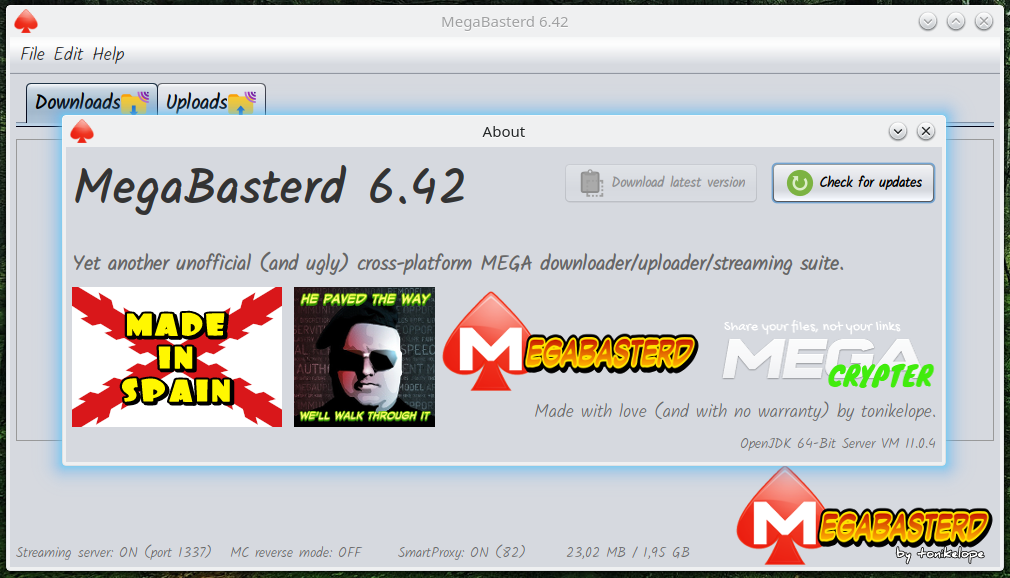
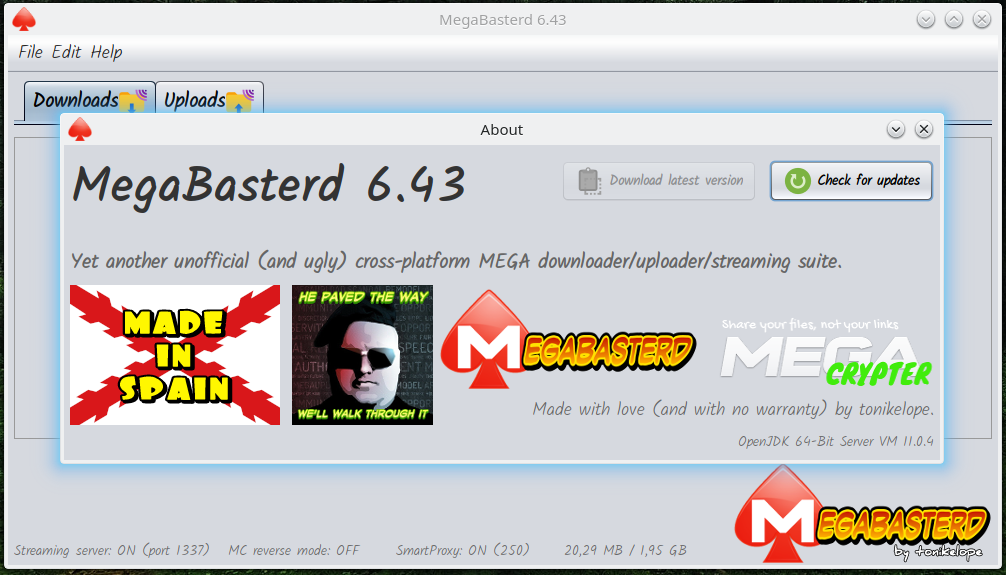
6.43
-Force garbage collector thread

(cherry picked from commit 7f11f154552fb9e1cc0e64d0cebd865da735b05c)

diff --git a/src/main/java/com/tonikelope/megabasterd/MainPanel.java b/src/main/java/com/tonikelope/megabasterd/MainPanel.java
@@ -50,7 +50,7 @@ import javax.swing.UIManager;
  */
 public final class MainPanel {
 
-    public static final String VERSION = "6.42";
+    public static final String VERSION = "6.43";
     public static final int THROTTLE_SLICE_SIZE = 16 * 1024;
     public static final int DEFAULT_BYTE_BUFFER_SIZE = 16 * 1024;
     public static final int STREAMER_PORT = 1337;
@@ -183,6 +183,7 @@ public final class MainPanel {
     private boolean _megacrypter_reverse;
     private float _zoom_factor;
     private volatile boolean _exit;
+    private volatile boolean _forcing_gc;
 
     public MainPanel() {
 
@@ -376,6 +377,8 @@ public final class MainPanel {
 
                 Runtime instance = Runtime.getRuntime();
 
+                _forcing_gc = false;
+
                 while (true) {
 
                     long used_memory = instance.totalMemory() - instance.freeMemory();
@@ -392,19 +395,49 @@ public final class MainPanel {
 
                             }
                         });
-                    } else {
 
-                        Logger.getLogger(MainPanelView.class.getName()).log(Level.INFO, "Forcing garbage collection...");
+                    } else {
 
                         swingInvoke(new Runnable() {
                             @Override
                             public void run() {
-                                _view.getMemory_status().setText("---------");
+                                _view.getMemory_status().setText("(!) " + MiscTools.formatBytes(used_memory) + " / " + MiscTools.formatBytes(max_memory));
                             }
                         });
 
-                        MiscTools.force_garbage_collection();
+                        if (!_forcing_gc) {
 
+                            _forcing_gc = true;
+
+                            THREAD_POOL.execute(new Runnable() {
+                                @Override
+                                public void run() {
+
+                                    long used_memory = instance.totalMemory() - instance.freeMemory();
+
+                                    long max_memory = instance.maxMemory();
+
+                                    while (used_memory >= ((double) max_memory) * 0.7) {
+
+                                        Logger.getLogger(MainPanelView.class.getName()).log(Level.INFO, "Forcing garbage collection...");
+
+                                        MiscTools.force_garbage_collection();
+
+                                        try {
+                                            Thread.sleep(15000);
+                                        } catch (InterruptedException ex) {
+                                            Logger.getLogger(MainPanelView.class.getName()).log(Level.SEVERE, null, ex);
+                                        }
+
+                                        used_memory = instance.totalMemory() - instance.freeMemory();
+
+                                        max_memory = instance.maxMemory();
+                                    }
+
+                                    _forcing_gc = false;
+                                }
+                            });
+                        }
                     }
 
                     try {
